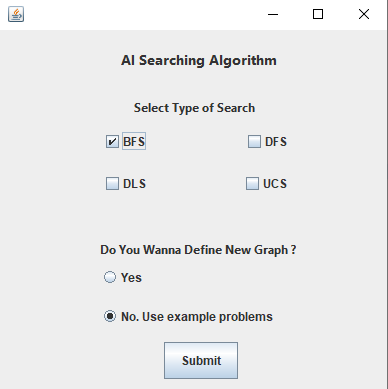
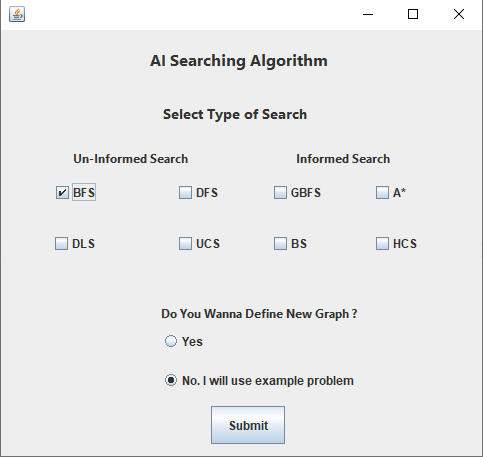
Added new Screenshots in Folder.

diff --git a/src/com/project/ui/UI.java b/src/com/project/ui/UI.java
@@ -35,7 +35,8 @@ public class UI extends javax.swing.JFrame {
     public UI() {
         initComponents();
         
-        yesRButton.setSelected(true);
+        BFSCBox.setSelected(true);
+        noRButton.setSelected(true);
         
     }
 
